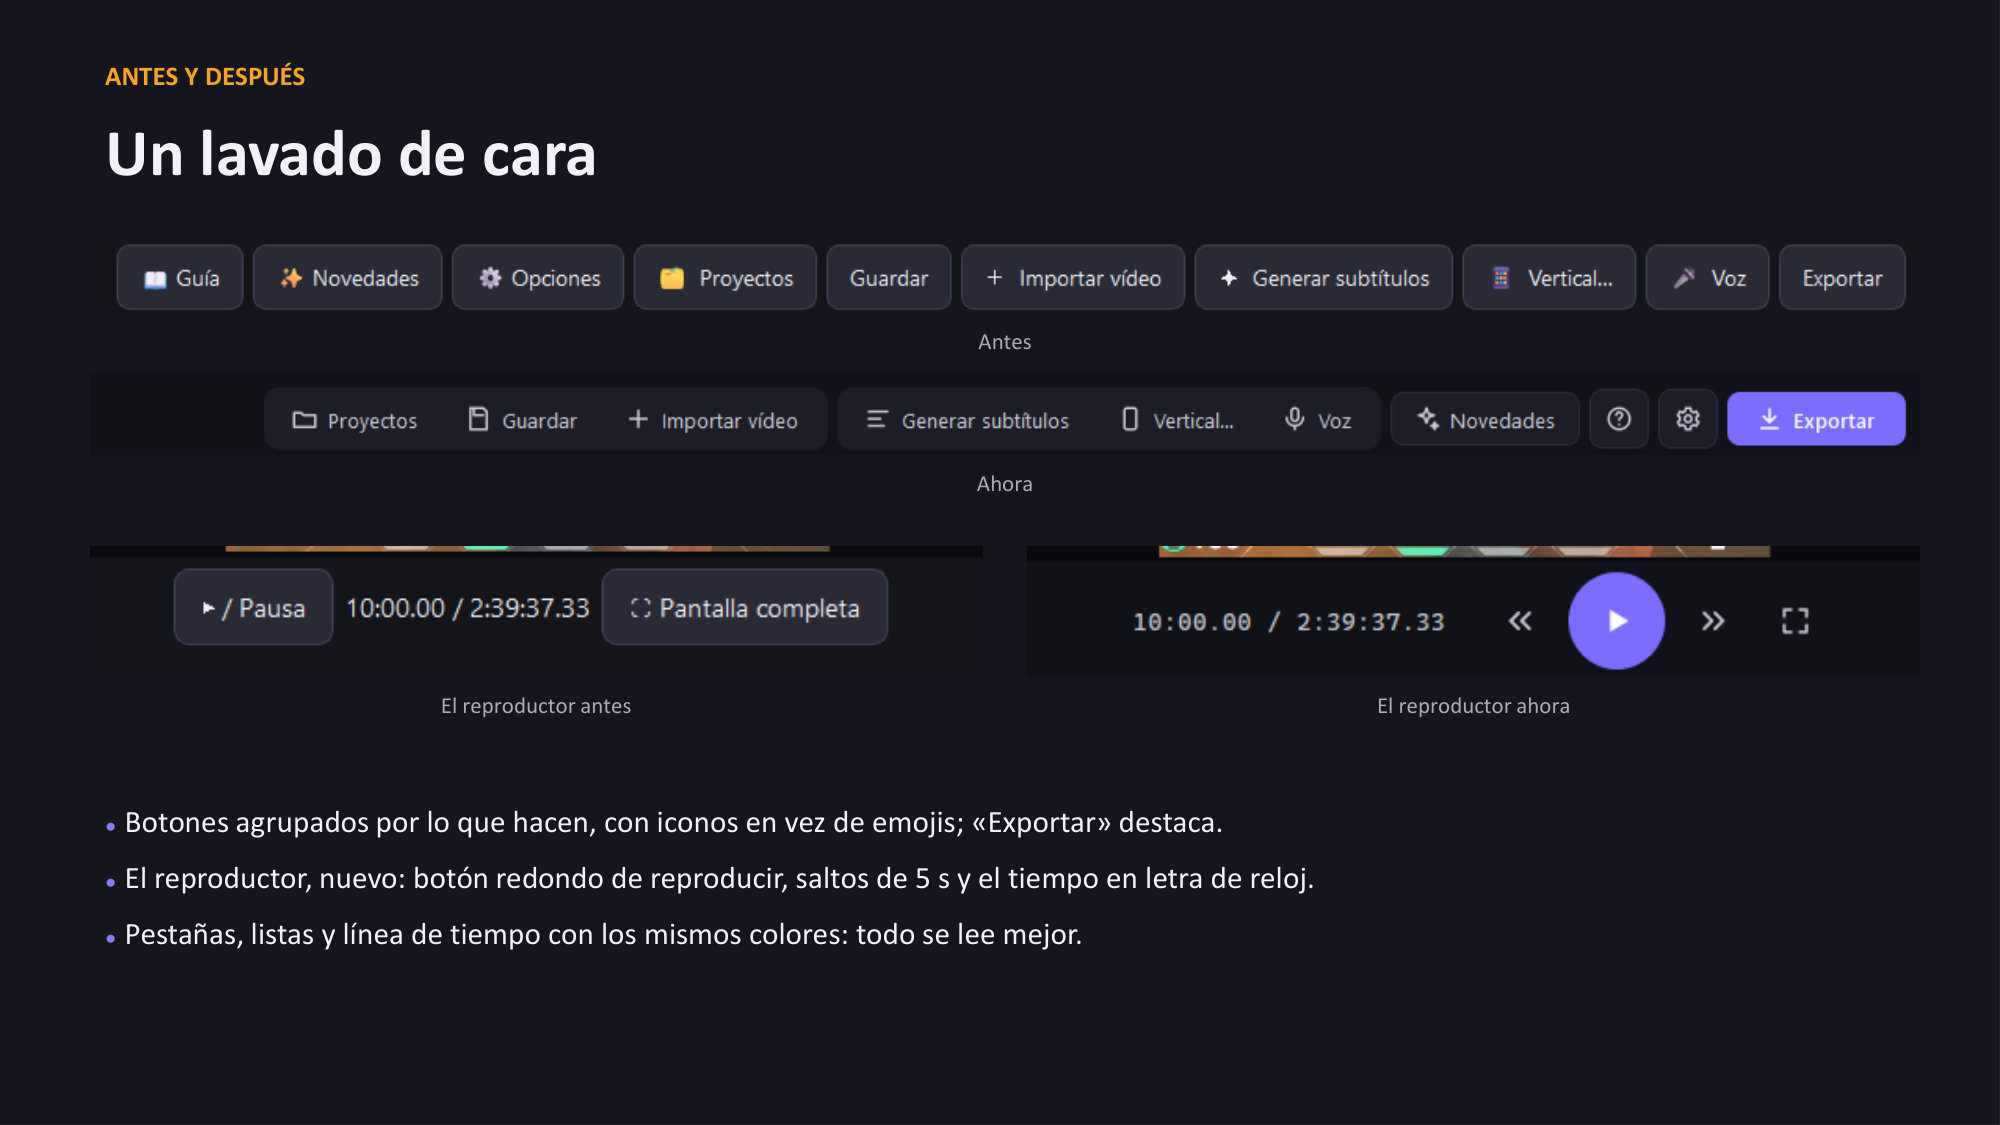
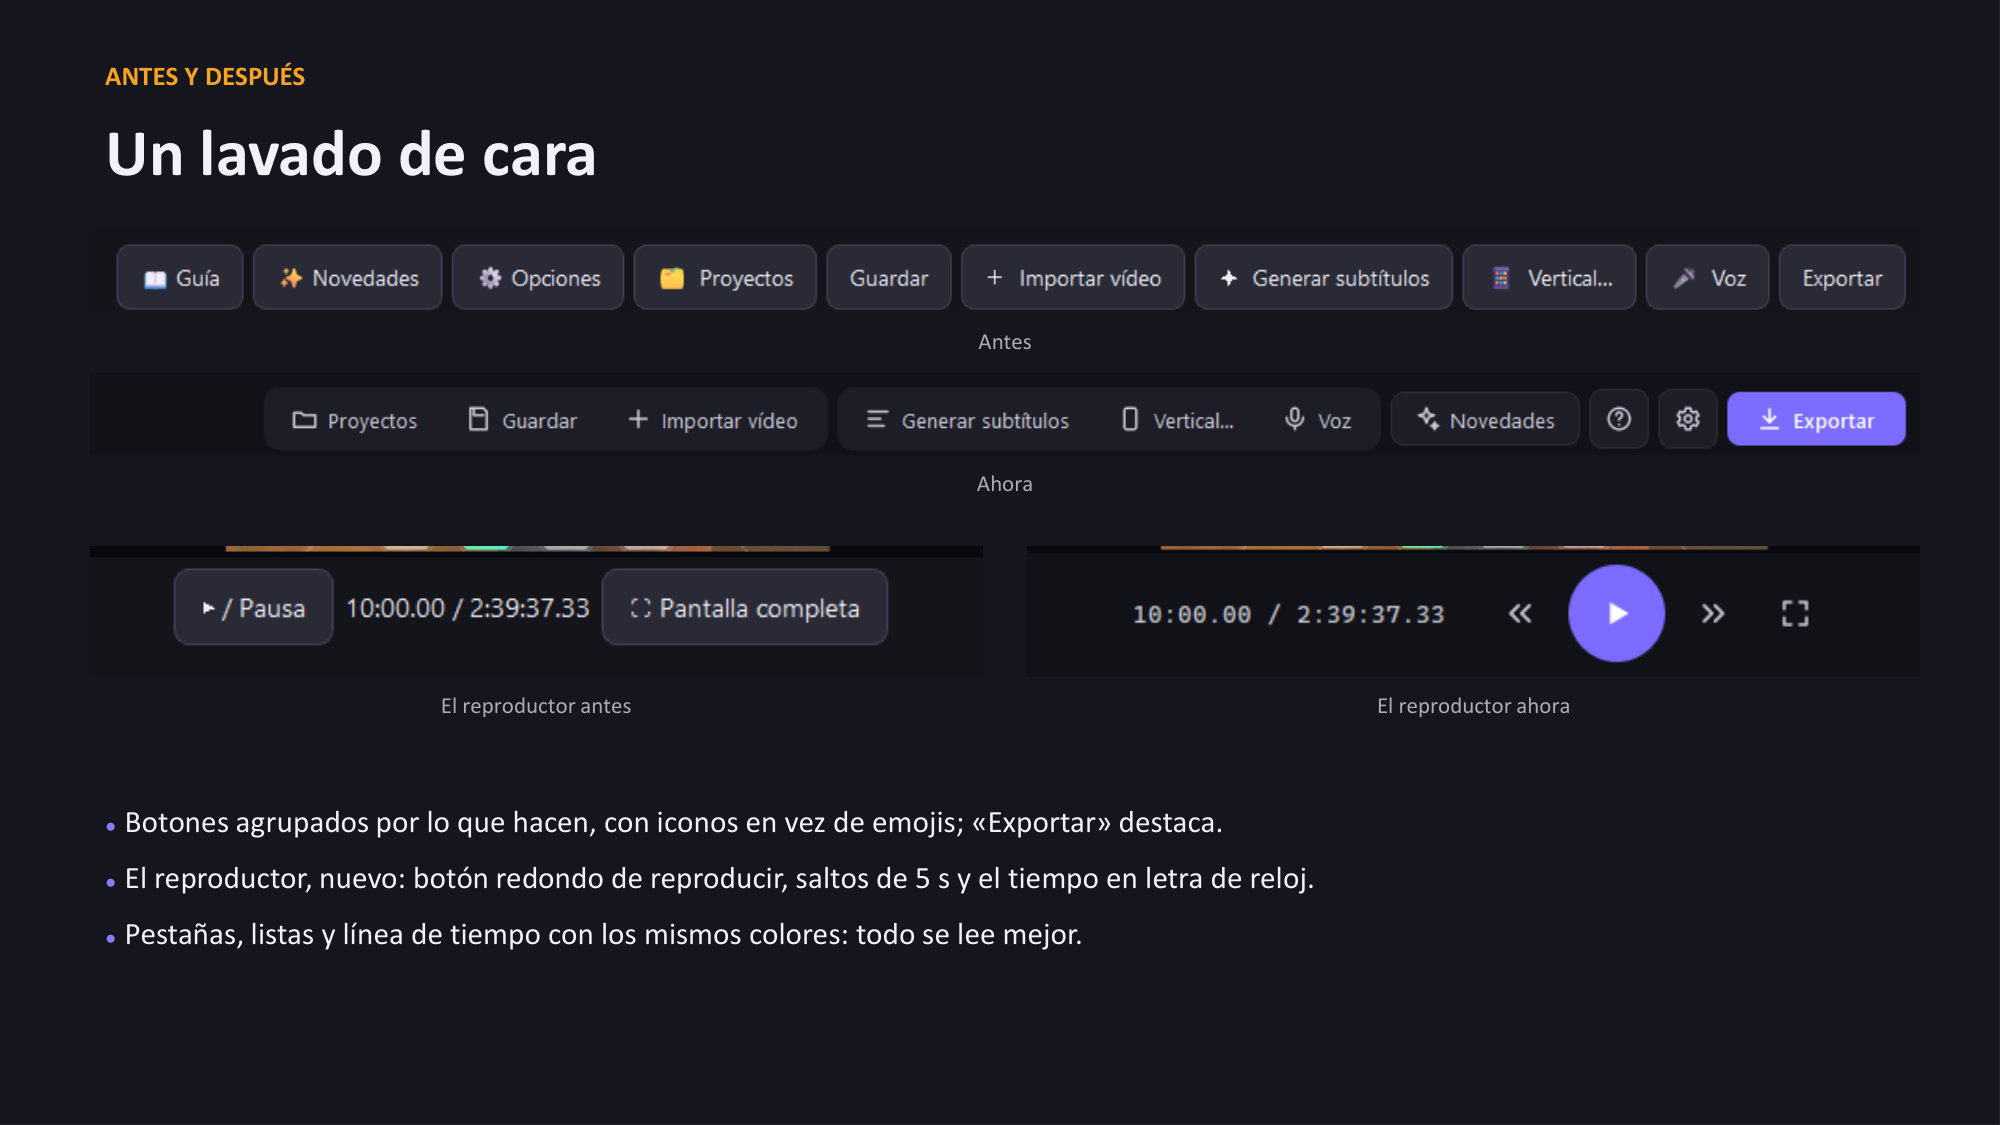
Presentación actualizada (07/11/2026)

Changed region(s): [[0.558, 0.4667, 0.93, 0.5911], [0.558, 0.5289, 0.775, 0.56]]

diff --git a/index.html b/index.html
@@ -84,11 +84,11 @@ button:focus-visible { outline: 2px solid var(--amber); outline-offset: 2px; }
     <img src="diapositivas/15.jpg?v=08c8a7bb40" alt="Diapositiva 15: WINDOWS Y MAC En Windows y en Mac Captura real en el Mac donde se edita cada día Acción Mac Deshacer / rehacer ⌘Z / ⌘⇧Z Cortar en el cabezal ⌘B Juntar palabras ">
     <img src="diapositivas/16.jpg?v=b43ebe0cb0" alt="Diapositiva 16: ACTUALIZACIONES Cada versión nueva, con un clic Al abrir NoxCut, si hay una versión nueva (Windows) Al abrir la versión nueva: lo que trae ●Al abrir, NoxCut mir">
     <img src="diapositivas/17.jpg?v=f922026b1b" alt="Diapositiva 17: A MEDIDA Hecho con una editora que lo usa cada día Pidió: Poder arrastrar imágenes y vídeos desde el explorador, como en cualquier editor. → Se sueltan en cualq">
-    <img src="diapositivas/18.jpg?v=7054117622" alt="Diapositiva 18: ANTES Y DESPUÉS Un lavado de cara Antes Ahora El reproductor antes El reproductor ahora ●Botones agrupados por lo que hacen, con iconos en vez de emojis; «Expor">
+    <img src="diapositivas/18.jpg?v=0bcd146299" alt="Diapositiva 18: ANTES Y DESPUÉS Un lavado de cara Antes Ahora El reproductor antes El reproductor ahora ●Botones agrupados por lo que hacen, con iconos en vez de emojis; «Expor">
     <img src="diapositivas/19.jpg?v=a3d9475fdc" alt="Diapositiva 19: LICENCIAS Cada ordenador, su propia clave Lo que ve quien instala NoxCut la primera vez 1 Instalas NoxCut La primera vez te enseña el código único de tu ordenad">
     <img src="diapositivas/20.jpg?v=6da8a65816" alt="Diapositiva 20: DERECHOS Una obra registrada y protegida © © 2026 Garzanox · Todos los derechos reservados Registrado en Safe Creative Nº 2611067566781 · 06/11/2026 Autor Garza">
-    <img src="diapositivas/21.jpg?v=d861d2a563" alt="Diapositiva 21: CÓMO SE HA HECHO 8 días, 100 avances 30/10 · 14:07 Primera exportación 30/10 · 16:27 Estilos y modo pop 30/10 · 21:02 Montaje 31/10 · 11:30 Generar cortes 31/10">
-    <img src="diapositivas/22.jpg?v=7aed04bef1" alt="Diapositiva 22: RESULTADOS En números 8 días del prototipo a editor de vídeo (30/10 a 07/11/2026) 100 avances en la cronología, cada uno probado 13 s para encontrar las 11 part">
+    <img src="diapositivas/21.jpg?v=485c7ac622" alt="Diapositiva 21: CÓMO SE HA HECHO 8 días, 102 avances 30/10 · 14:07 Primera exportación 30/10 · 16:27 Estilos y modo pop 30/10 · 21:02 Montaje 31/10 · 11:30 Generar cortes 31/10">
+    <img src="diapositivas/22.jpg?v=b2dcd24b02" alt="Diapositiva 22: RESULTADOS En números 8 días del prototipo a editor de vídeo (30/10 a 07/11/2026) 102 avances en la cronología, cada uno probado 13 s para encontrar las 11 part">
     <img src="diapositivas/23.jpg?v=ff5eef60f6" alt="Diapositiva 23: PRÓXIMOS PASOS Lo que viene Versión para Linux Lo mismo que en Mac y Windows: instalar y abrir con un clic. Aceleración AMD Investigar aceleración por GPU compa">
     <button class="side prev" id="sidePrev" aria-label="Diapositiva anterior"></button>
     <button class="side next" id="sideNext" aria-label="Diapositiva siguiente"></button>
